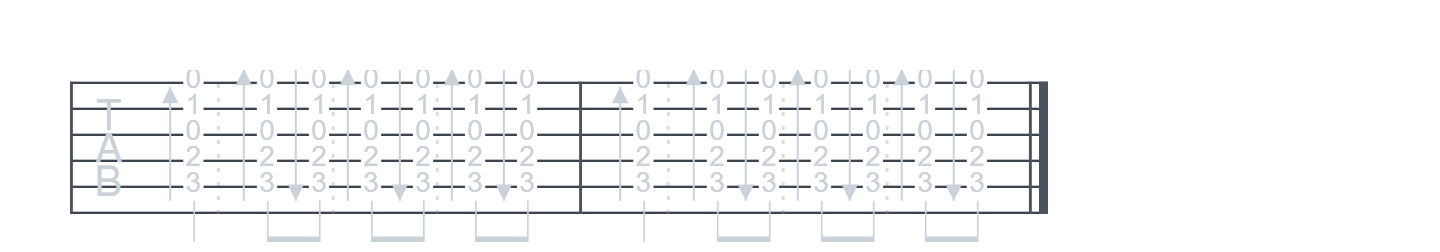
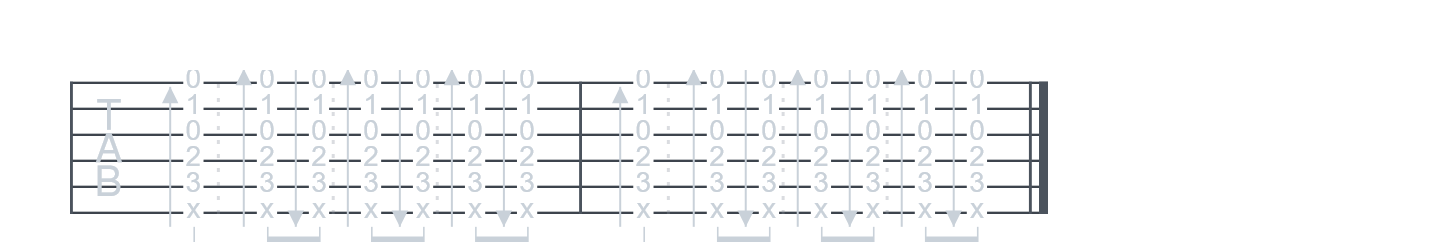
fix(scores): 扫弦谱里不弹的弦画 x（第 6 弦不再空着）

diff --git a/packages/core/src/tab.ts b/packages/core/src/tab.ts
@@ -31,6 +31,13 @@ export interface TabNote {
   arrow?: "D" | "U";
   /** 右手切音：箭头上面加一个点（视频板书就是这么标的）。 */
   muted?: boolean;
+  /**
+   * 这根弦不参与这一下：谱面上画 `x`（不发声）。
+   *
+   * 和弦扫弦时用得着——`C` 是 `x32010`，第 6 弦不弹，
+   * 只画五根弦的话谱面看起来像「少了一根弦」，把 x 标出来才是完整的六线谱。
+   */
+  ghost?: boolean;
 }
 
 export interface Tab {
@@ -69,6 +76,7 @@ export interface TabEvent {
 export function tabEvents(tab: Tab, bpm = 80): TabEvent[] {
   const secondsPerBeat = 60 / Math.max(20, bpm);
   return tab.notes
+    .filter((note) => !note.ghost)
     .map((note) => ({
       midi: STANDARD_TUNING.strings[note.s - 1] + note.f,
       string: note.s,
@@ -303,7 +311,11 @@ export function strumTab(opts: {
       const dur = hit.dur ?? (next ? next.at - hit.at : beatsPerBar - hit.at);
       const beat = bar * beatsPerBar + hit.at;
       frets.forEach((fret, stringIndex) => {
-        if (fret < 0) return;
+        // 空着的弦也要占位画 x：不然六线谱上会缺一根弦，看着像没画全。
+        if (fret < 0) {
+          notes.push(n(6 - stringIndex, 0, beat, dur, { arrow: hit.dir, ghost: true }));
+          return;
+        }
         notes.push(n(6 - stringIndex, fret, beat, dur, { arrow: hit.dir, muted: hit.muted }));
       });
     });

diff --git a/apps/web/src/lib/tab-layout.ts b/apps/web/src/lib/tab-layout.ts
@@ -62,7 +62,8 @@ const MAX_SYSTEM_WIDTH = 460;
 
 /** 六线谱场景。 */
 export function layoutTab(tab: Tab): TabScene {
-  const { notes, beatsPerBar, bars } = tab;
+  // 空弦上的 x（`ghost`）由 alphaTab 画，自绘这层不算它，免得画出两个 0 来。
+  const { notes, beatsPerBar, bars } = { ...tab, notes: tab.notes.filter((note) => !note.ghost) };
   /** 朗读练习只有一条节奏线（画 X），不是六线谱。 */
   const rhythmStyle = tab.display === "rhythm";
   const lineCount = rhythmStyle ? 1 : 6;

diff --git a/packages/core/src/alphatex.ts b/packages/core/src/alphatex.ts
@@ -120,6 +120,7 @@ export function onsetsOf(notes: TabNote[]): Onset[] {
 }
 
 function noteText(note: TabNote, mute: "dead" | "plain"): string {
+  if (note.ghost) return `x.${note.s}`;
   if (mute === "dead" && note.muted) return `x.${note.s}`;
   return `${note.f}.${note.s}`;
 }

diff --git a/apps/web/src/lib/scores-version.ts b/apps/web/src/lib/scores-version.ts
@@ -1,3 +1,3 @@
 // 由 `pnpm --filter @guitar/web run gen:scores` 生成，不要手改。
 // 谱面图片的内容指纹：图片地址带上它，重新生成后浏览器才会重新下载。
-export const SCORES_VERSION = "92d3bef8";
+export const SCORES_VERSION = "13f302f7";

diff --git a/docs/versioning.md b/docs/versioning.md
@@ -19,10 +19,11 @@ SemVer：`MAJOR.MINOR.PATCH`
 | `packages/core` | 独立 | 只在自己的 API 变化时动；新增导出算 MINOR |
 | `plugins/dsh-guitar` | 独立 | 同上；插件与产品发版节奏不同，改插件才动 |
 
-当前：产品 `0.21.0`，core `0.15.0`，插件 `0.5.1`（v0.19.0 给 core 加了 `strumTab`（按音位排谱），算 MINOR；
+当前：产品 `0.21.2`，core `0.16.0`，插件 `0.5.1`（v0.19.0 给 core 加了 `strumTab`（按音位排谱），算 MINOR；
 v0.19.6 只是排版与记法，core 不动；v0.20.0 换渲染器、core 只多了一个 `alphatex.ts`（新导出 `tabToAlphaTex` 等），
-按「新增导出算 MINOR」本该升到 0.16.0，但 alphaTex 只是渲染适配层、不属于乐理 API，这次按 PATCH 处理，等它稳定再升）。
-`tools/tab-score` 是独立发布的包（`@danzw/tab-score`），版本线与产品无关，现在是 `0.2.0`。
+按「新增导出算 MINOR」本该升到 0.16.0，但 alphaTex 只是渲染适配层、不属于乐理 API，这次按 PATCH 处理；
+v0.21.2 给 `TabNote` 加了 `ghost`（弦不弹、谱上画 x），属于向下兼容的新字段，core 正式升到 `0.16.0`）。
+`tools/tab-score` 是独立发布的包（`@danzw/tab-score`），版本线与产品无关，现在是 `0.3.0`。
 
 ## 一次发版的流程
 

diff --git a/docs/ux.md b/docs/ux.md
@@ -483,6 +483,10 @@ C 大调的八个音上（5 弦 3 品 C、4 弦 2 品 E、3 弦 0 品 G、2 弦 
   拍线是按 `boundsLookup` 里每拍的 tick 位置算出拍界、再取两侧音符的中点画上去的；
 - 切音点用**死音音头** `x.5`（所有弦都画成 `x`），扫弦方向用 `{bd}` / `{bu}`（下扫 / 上扫）——
   alphaTab 把下扫画成向上挑的箭头，因为六线谱 1 弦在上，方向是对的；
+- **和弦里不弹的弦画 `x`**：`C` 是 `x32010`，第 6 弦不弹。只画五根弦的话，六线谱底下那根弦空着，
+  看着像「少画了一根」（用户 2026-11-08 就是这么报的）。所以 `strumTab()` 会给空弦补一个
+  `TabNote.ghost`（品 0、带方向、不发声），`tabToAlphaTex()` 把它翻成 `x.6`，`tabEvents()` 跳过它——
+  谱面完整、试听也不会把第 6 弦当成空弦拨出来；
 - **扫弦方向、切音、三连音、附点**都在 `tabToAlphaTex()` 里翻译，谱面上的符号是 alphaTab 画的；
 - **谱面的粗细**：alphaTab 的默认比例尺是给整页五线谱用的，直接缩到卡片里会显得笨重，
   所以 `gen-scores.ts` 传了一组 `engraving`：`musicFontSize: 32`（TAB 谱号，默认 36）、

diff --git a/CHANGELOG.md b/CHANGELOG.md
@@ -9,6 +9,16 @@
 - 和弦与音阶试听（目前音频只有节拍器）
 - 桌面 / 安卓壳（不排期，需先装工具链）
 
+## [0.21.2] - 2026-11-08
+
+### Fixed
+- **扫弦谱上第 6 弦看不到东西**：`C` 和弦是 `x32010`，第 6 弦本来就不弹，之前直接跳过不画，
+  六线谱底下那根弦空着，看着像「少画了一根」。现在不弹的弦也占位画 `x`（`TabNote.ghost`），
+  五根弦的和弦也能一眼看出第 6 弦是闷掉的；试听不会把它当成空弦弹出来。
+
+### Added
+- `TabNote.ghost`：这根弦不参与这一下，谱面画 `x`、播放时跳过。core 因此升到 `0.16.0`。
+
 ## [0.21.1] - 2026-11-08
 
 ### Changed
